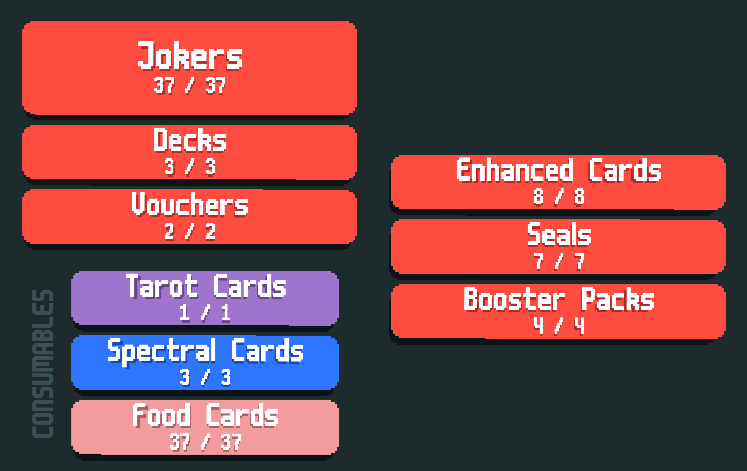
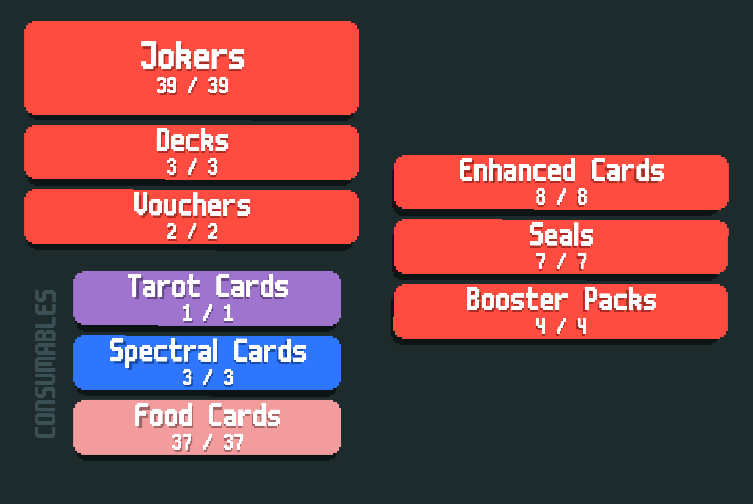
Update ReadMe

Changed region(s): [[0.0308, 0.0297, 0.4926, 0.9809], [0.5234, 0.2972, 0.9853, 0.7431]]

diff --git a/README.md b/README.md
@@ -8,7 +8,6 @@
 <h2>Installation</h2>
 <p>
     <a href="https://github.com/Steamodded/smods">Steamodded </a>1.0.0~BETA-0711a or higher is required.<br>
-    Can be useful to have <a href="https://github.com/SpectralPack/Talisman">Talisman</a> too.
 </p>
 <p>Just download the zip file, extract it and place it in your Mod folder.</p>
 
@@ -24,7 +23,7 @@
 <hr>
 <h2>Elements</h2>
 <ul>
-    <li>38+ Jokers</li>
+    <li>39+ Jokers</li>
     <li>31 Foods (+6 Cross-Mod)</li>
     <li>8+ Enhancements</li>
     <li>7 Seals</li>
